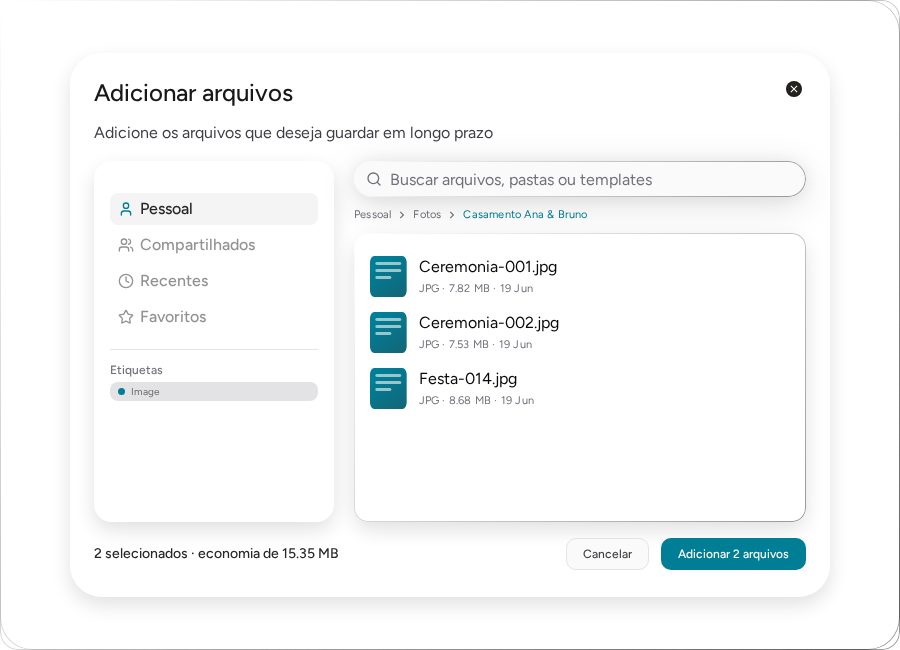
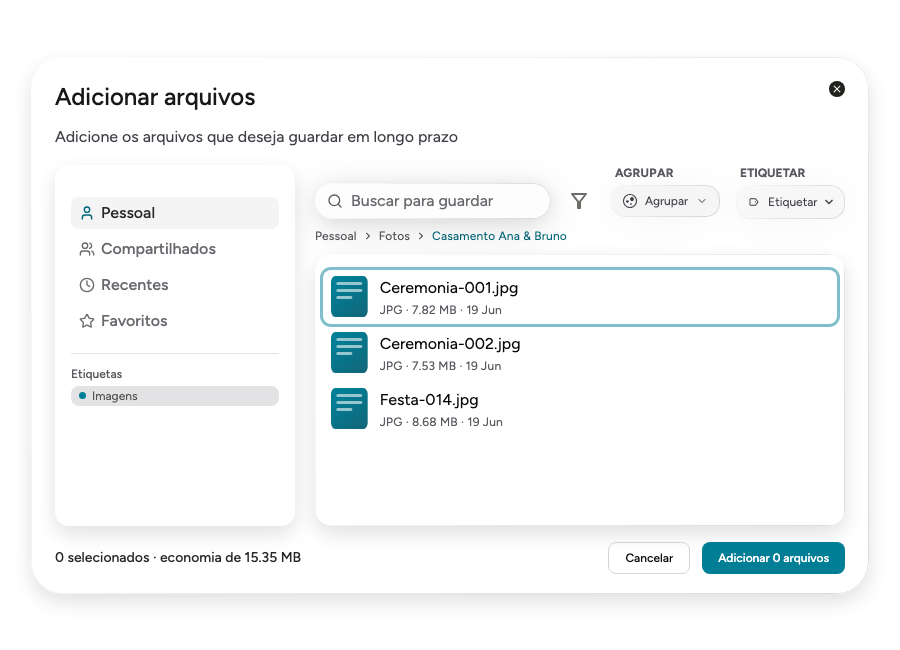
Etapa 0 do roteiro: capturas do README regeneradas e andamento registrado

diff --git a/CHANGELOG.md b/CHANGELOG.md
@@ -28,6 +28,7 @@ Arquivo do Figma KanDrive V0.2.1, a partir de 2026-09-23.
 - Case Study: slide novo `08 / Personas` ("Quem é atendido por quê"), ligando Bruna, Mariana e Rafael ao que o case entrega e ao que ficou de fora; o deck passa a ter 10 slides (Navegação é o 09 e Entrega o 10). Slide 06 com miniaturas maiores, regeradas das telas atuais, e uma legenda de insight por experiência; slide 10 com números de valor (188 componentes no Figma e 139 em React, 494 testes, 179 telas, 92 cores base e 121 papéis) e o Graphify como nota de processo; texto mínimo de 20px nos slides 03, 09 e 10 (árvore do código com as contagens atuais).
 - `organism/Dialog` Info Mobile (342px), no Figma e no código, e o aviso "Fora do escopo deste case" do Mobile passa a usá-lo. `atom/PushButton` marcado como obsoleto na descrição (214 instâncias dentro de componentes ainda o usam; a migração fica como to-do futuro).
 - Revisar organização (M1): a página atrás do modal já aparece esmaecida no Figma; nada a mudar.
+- README: `hero-storybook.png` e as grades de CardLogin, Sidebar e ArchiveBrowserModal regeneradas a partir do site publicado (eram de 2026-08-20).
 - Regra 13 (Header): Organizar e Guardar voltam a teal com texto branco (`Button` primário no código; `atom/PushButton` `BorderedColored` com ícone `Text/OnDark` no Figma, nas 6 variantes do Header e em todas as telas), porque o teste de usabilidade apontou falta de ênfase neles. Desfaz o contorno da auditoria UX (A2) só nesses dois botões; o resto do A2 segue. Nota nova `Regra 13 - Header` no vault.
 - Escopo (ajuste de narrativa): Compartilhados, Recentes, Favoritos e Lixeira deixam de ser "fora do escopo". São o mesmo layout da Home com outro título, sem telas próprias, e o slide `07 / Escopo` passa a listá-los em "Entrou neste case" ("Variações da Home"). No protótipo, os quatro itens da barra lateral (Desktop, Tablet e Mobile) abrem o novo aviso `Overlay/Mesma Home/{Desktop,Mobile}` ("Mesma Home, outro título"). "Esqueceu sua senha?" e "Crie uma agora" continuam no aviso "Fora do escopo deste case". Nenhuma tela ou componente novo.
 - Voz e tom: a seção `07 · Voz e tom` da Design Language ganhou os 5 atributos que representam a marca e os 5 que não representam, o arquétipo Inocente (Idealista no Bakka) e o posicionamento; a nota de Tom de Voz no vault foi atualizada com o entregável do Módulo 11.

diff --git a/docs/vault/Estado/Roteiro pós-case (2026-09-30).md b/docs/vault/Estado/Roteiro pós-case (2026-09-30).md
@@ -20,6 +20,12 @@ Deixa o case apresentável hoje. Origem: [[Revisão final (2026-09-30)]].
 4. **Storybook publicado:** passada visual (primeira página, links, claro e Dark).
 5. **Voz e tom:** confirmar a frase "como a marca quer ser lembrada", que veio truncada no PDF do Módulo 11 (hoje: "a marca que guarda o que você não pode perder").
 
+**Andamento (2026-09-30):**
+- Item 2: a captura do Header no slide 10 mostrava Organizar e Guardar em teal; com a [[Regra 13 - Header]] o Header voltou a ser assim e a imagem voltou a bater com o Figma. Não foi trocada (imagem do usuário). Basta conferir.
+- Item 3: feito. `hero-storybook.png` (agora a página Introdução) e as grades de CardLogin, Sidebar e ArchiveBrowserModal foram regeneradas a partir do site publicado. `fidelity-*.png` e o GIF são registros históricos de comparação e ficaram como estão.
+- Item 4: feito. O site publicado abre na Introdução, o índice tem 638 entradas e o Header no ar já mostra os botões em teal.
+- Itens 1 e 5: esperam você (arquivos dos mockups da capa e a frase de "como a marca quer ser lembrada").
+
 Feito quando: a capa tem os mockups, as capturas conferem com o site e a passada visual não acha defeito.
 
 ## Etapa 1: reteste
